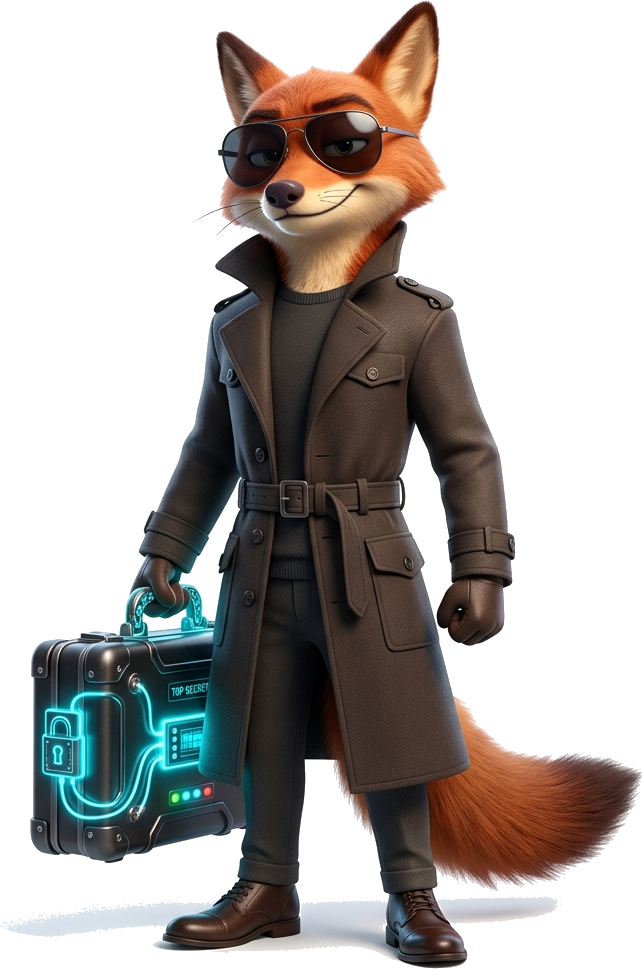
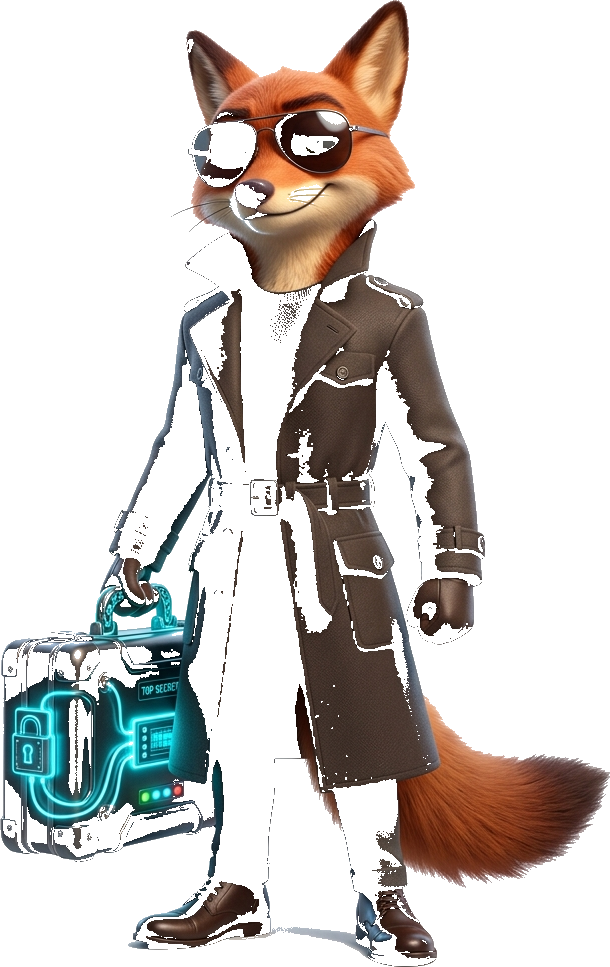
fix(ui): 100% clean cutout fox without background box and circular cartoon spotlight backdrop

diff --git a/src/components/GameSession.jsx b/src/components/GameSession.jsx
@@ -289,10 +289,13 @@ const GameSession = ({ players, config, onEndGame, onAbort, onOpenSettings }) =>
                         transition={{ delay: 0.1, type: 'spring', stiffness: 300, damping: 20 }}
                         className="relative w-56 h-52 flex items-center justify-center mb-1 flex-shrink-0"
                     >
-                        {/* Radial neon glow aura */}
-                        <div className={`absolute inset-4 rounded-full blur-2xl opacity-40 pointer-events-none ${
-                            isCivilianWin ? 'bg-spy-lime' : 'bg-spy-orange'
-                        }`} />
+                        {/* Circular Cartoon Spotlight Disk & Glow */}
+                        <div className="absolute inset-0 flex items-center justify-center pointer-events-none">
+                            <div className={`w-48 h-48 rounded-full blur-2xl opacity-45 ${
+                                isCivilianWin ? 'bg-spy-lime' : 'bg-orange-500'
+                            }`} />
+                            <div className="absolute w-44 h-44 rounded-full bg-gradient-to-b from-white/10 to-transparent border border-white/15 shadow-[inset_0_2px_12px_rgba(255,255,255,0.15)]" />
+                        </div>
 
                         <img 
                             src={isCivilianWin ? '/victory_civilians_cutout_3d.png' : '/victory_impostors_cutout_3d.png'} 

diff --git a/src/components/Scoreboard.jsx b/src/components/Scoreboard.jsx
@@ -32,9 +32,14 @@ const Scoreboard = ({ players, winners, onReplay, onHome, onOpenSettings }) => {
 
                 {/* 3D Cutout Victory / Defeat Hero Character */}
                 <div className="relative w-full h-56 flex items-center justify-center mb-1 flex-shrink-0">
-                    <div className={`absolute inset-4 rounded-full blur-3xl opacity-50 pointer-events-none ${
-                        isCivilianWin ? 'bg-spy-lime' : 'bg-spy-orange'
-                    }`} />
+                    {/* Circular Cartoon Spotlight Disk & Glow */}
+                    <div className="absolute inset-0 flex items-center justify-center pointer-events-none">
+                        <div className={`w-48 h-48 rounded-full blur-2xl opacity-45 ${
+                            isCivilianWin ? 'bg-spy-lime' : 'bg-orange-500'
+                        }`} />
+                        <div className="absolute w-44 h-44 rounded-full bg-gradient-to-b from-white/10 to-transparent border border-white/15 shadow-[inset_0_2px_12px_rgba(255,255,255,0.15)]" />
+                    </div>
+
                     <img 
                         src={isCivilianWin ? '/victory_civilians_cutout_3d.png' : '/victory_impostors_cutout_3d.png'} 
                         alt={winningTeamText} 